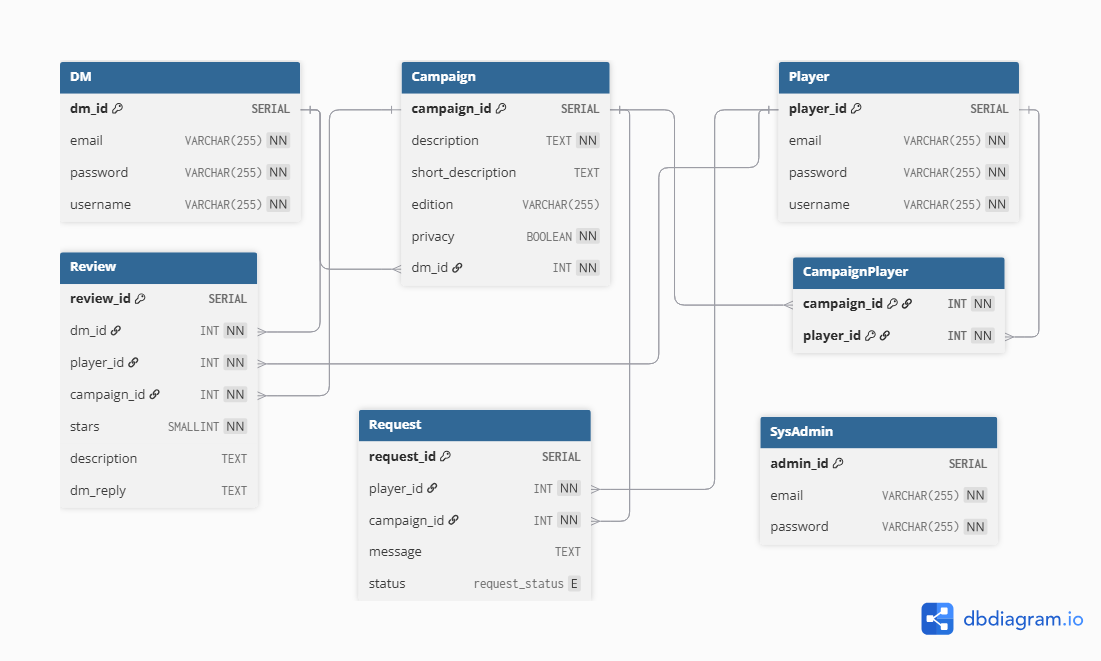
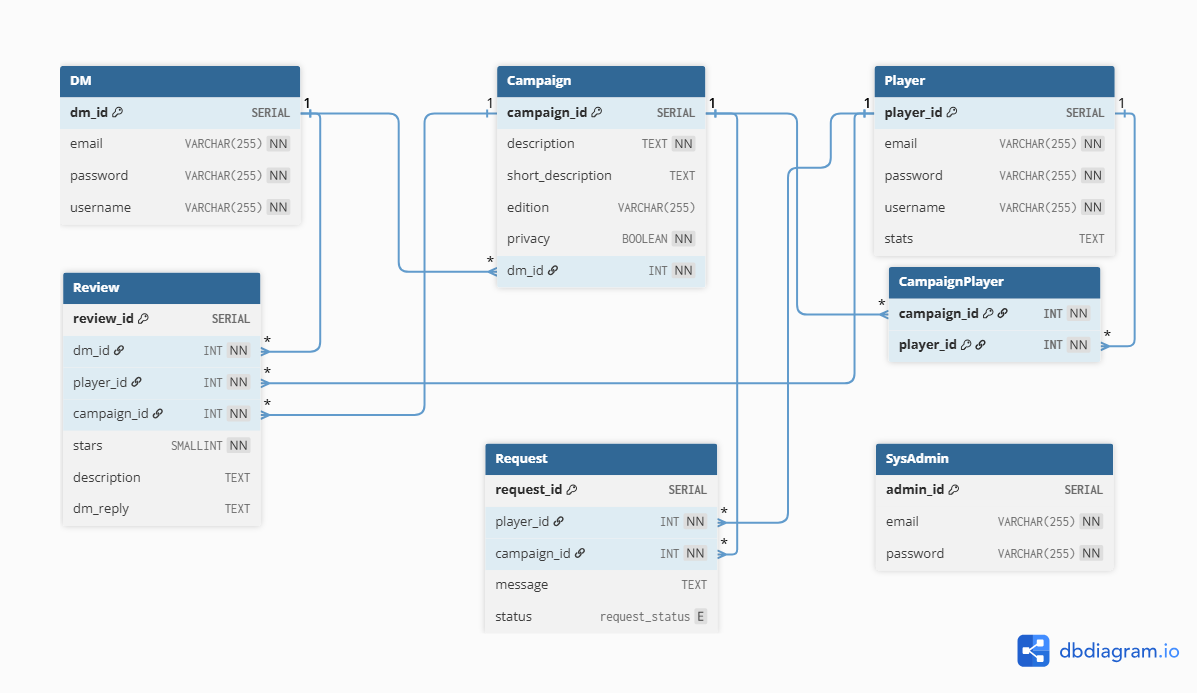
Added use-case descriptions for Dungeon Master in the design document and updated the database schema image to reflect changes to the player.

diff --git a/doc/object-oriented-design/Nat20NetworkDesign.MD b/doc/object-oriented-design/Nat20NetworkDesign.MD
@@ -12,7 +12,7 @@ Table of Contents
 * 2 [Use Cases](#2-use-cases)
   * 2.1 [Use Case Model](#21-use-case-model)
   * 2.2 [Use Case Descriptions](#22-use-case-descriptions)
-    * 2.2.1 [Actor: Farmer](#221-actor-farmer)
+    * 2.2.1 [Actor: Dungeon Master](#221-actor-dungeon-master)
     * 2.2.2 [Actor: Customer](#222-actor-customer) 
 * 3 [UML Class Diagram](#3-uml-class-diagram)
 * 4 [Database Schema](#4-database-schema)
@@ -34,17 +34,17 @@ Farmers create and publish produce boxes, customers subscribe any available boxe
 
 ### 2.2 Use Case Descriptions
 
-#### 2.2.1 Actor: Farmer
+#### 2.2.1 Actor: Dungeon Master
 ##### 2.2.1.1 Sign Up
-A farmer can sign up to create their profile with their name, email, password, and phone number. Emails must be unique.
+A DM can sign up for an account with their username, email, and password. Emails must be unique.
 ##### 2.2.1.2 Log In
-A farmer shall be able to sign in using their registred email and password. After logging in, the farmer shall be directed their dashboard where they see an overview of their farm, boxes and stats.
+A DM shall be able to sign in using their email and password. After logging in, the DM shall be taken to their dashboard, where they can create and manage campaigns, view campagin requests, view player feedback, and browse manuals.
 ##### 2.2.1.3 Update Profile
-A farmer shall be to modify their profile by going to their profile page. They can change their email, password, and farm.
-##### 2.2.1.4 Create Produce Boxes
-The farmer shall be able to create a new produce box listing. They would provide a box name, description, and price. This box will be created to be associated with only this farmer and their farm.
+A DM shall be to modify their profile by going to their profile page. Here, they can change their email, password, and username. DMs can also delete their account.
+##### 2.2.1.4 Create Campaigns
+A DM shall be able to create a new campaign listing. They must provide a campaign name, description, shortened description, what edition is being used, and the privacy of the campaign (public or private). This campaign will be associated with the DM, as well as the players that join the campaign. 
 ##### 2.2.1.4 View Customer Stats
-A farmer will be able to view several statistics such as total revenue, total subscribers, and average ratings.
+A DM shall be able to view several statistics such as the number of times a player has been kicked from a campaign and the highest level character they have played.
 
 #### 2.2.2 Actor: Customer
 ##### 2.2.2.1 Sign Up
